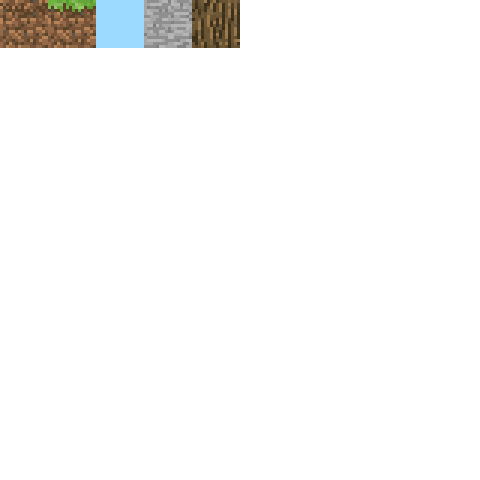
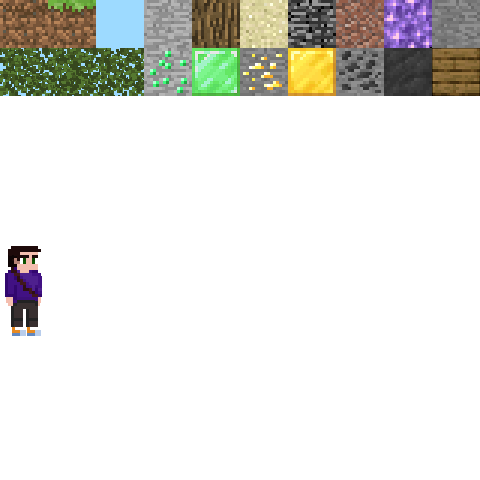
added new blocks

Changed region(s): [[0.0, 0.0, 1.0, 0.2188], [0.0, 0.5, 0.0938, 0.7188]]

diff --git a/block.py b/block.py
@@ -27,8 +27,25 @@ class Type_block():
 def types(types_block):
     ss = SpriteSheet("./all.png")
     types_block[0] = Type_block("Air", True, -1, ss.image_at((96, 0, 48, 48)))
-    types_block[1] = Type_block("Dirt", False, 10, ss.image_at((0, 0, 48, 48)))
-    types_block[2] = Type_block("Grass", False, 10, ss.image_at((48, 0, 48, 48)))
+    types_block[1] = Type_block("Dirt", False, 5, ss.image_at((0, 0, 48, 48)))
+    types_block[2] = Type_block("Grass", False, 5, ss.image_at((48, 0, 48, 48)))
+    types_block[3] = Type_block("Stone", False, 10, ss.image_at((144, 0, 48, 48)))
+    types_block[4] = Type_block("Log", False, 10, ss.image_at((192, 0, 48, 48)))
+    types_block[5] = Type_block("Sand", False, 10, ss.image_at((240, 0, 48, 48)))
+    types_block[6] = Type_block("Bedrock", False, -1, ss.image_at((288, 0, 48, 48)))
+    types_block[7] = Type_block("Granite", False, 10, ss.image_at((336, 0, 48, 48)))
+    types_block[8] = Type_block("Amethyst", False, 10, ss.image_at((384, 0, 48, 48)))
+    types_block[9] = Type_block("Stone1", False, 10, ss.image_at((432, 0, 48, 48)))
+    types_block[10] = Type_block("Leaves", False, 10, ss.image_at((0, 48, 48, 48)))
+    types_block[11] = Type_block("Leaves1", False, 10, ss.image_at((48, 48, 48, 48)))
+    types_block[12] = Type_block("Leaves2", False, 10, ss.image_at((96, 48, 48, 48)))
+    types_block[13] = Type_block("EmeraldOre", False, 10, ss.image_at((144, 48, 48, 48)))
+    types_block[14] = Type_block("Emerald", False, 10, ss.image_at((192, 48, 48, 48)))
+    types_block[15] = Type_block("GoldOre", False, 10, ss.image_at((240, 48, 48, 48)))
+    types_block[16] = Type_block("Gold", False, 10, ss.image_at((288, 48, 48, 48)))
+    types_block[17] = Type_block("CoalOre", False, 10, ss.image_at((336, 48, 48, 48)))
+    types_block[18] = Type_block("Coal", False, 10, ss.image_at((384, 48, 48, 48)))
+    types_block[19] = Type_block("Planks", False, 10, ss.image_at((432, 0, 48, 48)))
 
 if __name__ == "__main__":
     massive_block = []
